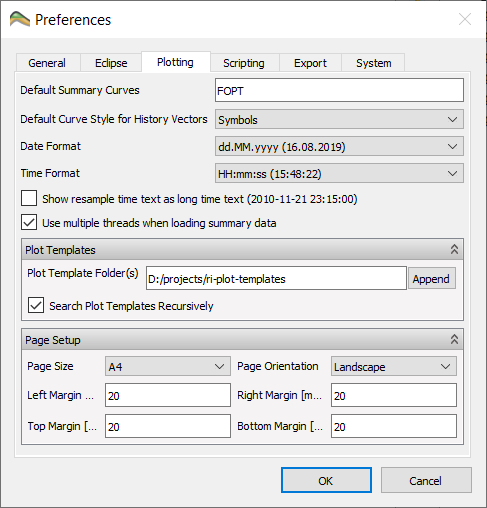
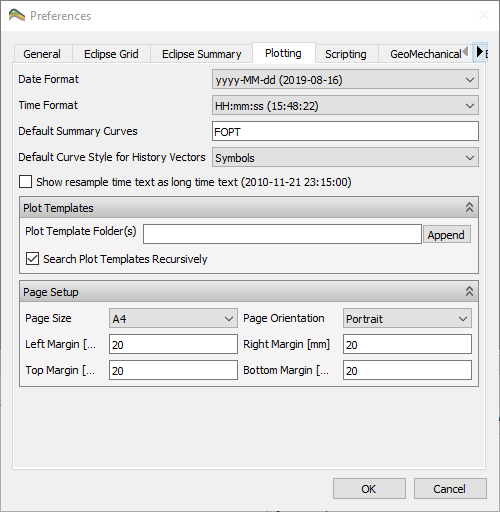
Add summary import page, improve preferences

diff --git a/content/plot-window/SummaryPlots.md b/content/plot-window/SummaryPlots.md
@@ -22,19 +22,13 @@ ResInsight can create summary plots based on vectors from SUMMARY files ( _`*.SM
 
 ### SUMMARY Files
 
-When opening an Eclipse case in the 3D view, the associated summary file is opened automatically by default and made available as a **Summary Case**.
-Summary files can also be imported directly using one of the following commands in the **File->Import->Summary Cases** menu:
+See [Eclipse Summary Data]({{< relref "eclipsesummarydata" >}}) for description on how to import data.
 
-- **Import Summary Case**: Brings up the standard file selection dialog. Multiple selections are allowed.
-- **Import Summary Cases Recursively**: Brings up the [recursive file selection](#recursive-summary-file-import) dialog to load files from multiple directories.
-- **Import Summary Case Group**: Brings up the [recursive file selection](#recursive-summary-file-import) dialog. Selected files are automatically grouped.
-- **Import Ensemble**: Similar to the above, but in addition to just create a group, ResInsight performs some extra checking related to ensembles and converts the group to an ensemble, c.f. [Ensemble Plotting]({{< relref "ensembleplotting" >}}).
-
-These commands can also be accessed in the right-click menu for the **Summary Cases** entry in the **Plot Project Tree**.
+The input commands can also be accessed in the right-click menu for the **Summary Cases** entry in the **Plot Project Tree**.
 Notably, the right-click menu also allows creating a [delta ensemble]({{< relref "ensembleplotting" >}}#delta-ensemble) 
 and [delta summary case]({{< relref "summaryplots" >}}#delta-summary-case).
 
-During summary file import, ResInsight checks whether the summary file is restarted, i.e. has an origin file. If an origin file is found, the [Origin Files](#origin-files) dialog is displayed.
+During summary file import, ResInsight checks whether the summary file is restarted, i.e. has an origin file. If an origin file is found, the [Origin Files]({{< relref "eclipsesummarydata" >}}#origin-files) dialog is displayed.
 
 
 ### Summary Case Groups
@@ -219,44 +213,3 @@ The user can control the curve name used in the plot legend by the following opt
 
 Copy and Paste of selections of Summary Plots and Curves, is possible using the Project Tree right-click menu and standard keyboard shortcuts (CTRL-C/CTRL-V).
 
-## Recursive summary file import
-When using the standard file selection dialog, the user is limited to select files in one directory only. If the interesting files are distributed over multiple directories, the dialog has to be opened once for each directory. The recursive file selection dialog is created to circumvent this limitation. This dialog is able to search a directory tree for files matching a specified pattern.
-
-![]({{< relref "" >}}images/plot-window/RecursiveImportDialog2.png)
-
-The dialog consists of the following fields:
-
-- **Path Pattern**: The path filter uses normal wildcard file globbing, like in any unix shell. When the filter ends with a single "**" (eg. "/home/*"), however, ResInsight will search recursively in all subdirectories from that point. This is indicated by "..." in the **Effective Filter** label below.
-  - **\*** Matches any number of any characters except the path separator
-  - **?** Matches one character exception the directory separator
-  - **[abc]** Matches one of the specified characters. Ex. a, b or c
-- **File Pattern**: The search pattern that applies to the file name.
-- **Effective Filter**: The effective filter displays the resulting full path search pattern. It is updated on the fly as the user edits the pattern fields. A text string of "..." indicates a complete recursive directory search.
-
-After pressing the **Find** button, a file search is performed in the root directory and the directories below matching the path pattern. The files found are presented in a list, where the user can check/uncheck each file individually.
-
-When the **OK** button is pressed, all checked files are imported.
-
-### Origin Files
-![]({{< relref "" >}}images/plot-window/OriginFileDialog.png)
-
-During summary file import, ResInsight checks whether the summary file is restarted, i.e. has an origin file. If an origin file is found, the Origin Files dialog is displayed.
-
-Depending on what triggered the summary file import, the dialog shows slightly different information. If the summary file import was triggered by a grid file import, the dialog displays information about grid files in addition to the summary origin file(s). If the summary file was imported directly, information about grid files are not relevant and thus not displayed.
-
-The dialog contents are organized in groups:
-
-- **Current Grid and Summary Files** or **Current Summary Files**: This group displays the name of the main summary file to import. If the import is triggered by a grid file import, the name of the grid file is also displayed.
-- **Origin Summary Files**: This group displays the names of the origin summary file(s) found. If there are more than one file listed, it means that the found origin file also has an origin file. ResInsight will search the "chain" of summary origin files until it reaches the end.
-  - **Import Options** There are three options to control how origin summary file are imported
-    - **Unified**: The main summary files and all origin files are imported into one single summary case
-    - **Separate Cases**: The main files and all origin files are imported into separate summary cases
-    - **Skip**: Only the main summary file is imported. The origin summary files are skipped.
-- **Origin Grid Files**: If the summary file import was triggered by a grid file import, this group is visible. It contains a list of the grid files associated to the origin summary files
-  - **Import Options** There are two options to control how the grid files are imported
-    - **Separate Cases**: All "origin" grid files are imported into separate grid cases
-    - **Skip**: Only the main grid file is imported. The "origin" grid files are skipped.
-
-By default the file names are displayed using relative path based on the common root folder for all files. In order to display the full path, check the **Show full paths** checkbox. Regardless of the checkbox state, there is always a tooltip showing the full path for every file. It is also possible to copy a full path file name to the clipboard. Right click on the file name and select **Copy file name**.
-
-If the user selected multiple summary files or grid files, this dialog will be displayed for every file that has an origin summary file. In this case the button **OK to All** appears. When this button is clicked, the rest of the files will be imported silently using the same options.

diff --git a/content/import/EclipseSummaryData.md b/content/import/EclipseSummaryData.md
@@ -1,0 +1,68 @@
++++
+title = "Eclipse Summary Data"
+published = true
+weight = 10
++++
+ 
+Summary data can be imported as a single summary file or an ensemble of summary files.
+
+### Basic Summary Import
+Summary data is located in two files, summary vector names in **\*.SMSPEC** and curve data in **\*.UNSMRY**.  
+
+
+
+## Ensemble File Import
+When using the standard file selection dialog, the user is limited to select files in one directory only. If the interesting files are distributed over multiple directories, the dialog has to be opened once for each directory. The recursive file selection dialog is created to circumvent this limitation. This dialog is able to search a directory tree for files matching a specified pattern.
+
+{{% notice note %}}
+This dialog is used for import of different file types like *.EGRID and *.SMSPEC.
+{{% /notice %}}
+
+![]({{< relref "" >}}images/plot-window/RecursiveImportDialog2.png)
+
+The dialog consists of the following fields:
+
+- **Path Pattern**: The path filter uses normal wildcard file globbing, like in any unix shell. When the filter ends with a single "**" (eg. "/home/*"), however, ResInsight will search recursively in all subdirectories from that point. This is indicated by "..." in the **Effective Filter** label below.
+  - **\*** Matches any number of any characters except the path separator
+  - **?** Matches one character exception the directory separator
+  - **[abc]** Matches one of the specified characters. Ex. a, b or c
+- **File Pattern**: The search pattern that applies to the file name.
+- **Effective Filter**: The effective filter displays the resulting full path search pattern. It is updated on the fly as the user edits the pattern fields. A text string of "..." indicates a complete recursive directory search.
+
+After pressing the **Find** button, a file search is performed in the root directory and the directories below matching the path pattern. The files found are presented in a list, where the user can check/uncheck each file individually.
+
+When the **OK** button is pressed, all checked files are imported.
+
+### Origin Files
+![]({{< relref "" >}}images/plot-window/OriginFileDialog.png)
+
+During summary file import, ResInsight checks whether the summary file is restarted, i.e. has an origin file. If an origin file is found, the Origin Files dialog is displayed.
+
+Depending on what triggered the summary file import, the dialog shows slightly different information. If the summary file import was triggered by a grid file import, the dialog displays information about grid files in addition to the summary origin file(s). If the summary file was imported directly, information about grid files are not relevant and thus not displayed.
+
+The dialog contents are organized in groups:
+
+- **Current Grid and Summary Files** or **Current Summary Files**: This group displays the name of the main summary file to import. If the import is triggered by a grid file import, the name of the grid file is also displayed.
+- **Origin Summary Files**: This group displays the names of the origin summary file(s) found. If there are more than one file listed, it means that the found origin file also has an origin file. ResInsight will search the "chain" of summary origin files until it reaches the end.
+  - **Import Options** There are three options to control how origin summary file are imported
+    - **Unified**: The main summary files and all origin files are imported into one single summary case
+    - **Separate Cases**: The main files and all origin files are imported into separate summary cases
+    - **Skip**: Only the main summary file is imported. The origin summary files are skipped.
+- **Origin Grid Files**: If the summary file import was triggered by a grid file import, this group is visible. It contains a list of the grid files associated to the origin summary files
+  - **Import Options** There are two options to control how the grid files are imported
+    - **Separate Cases**: All "origin" grid files are imported into separate grid cases
+    - **Skip**: Only the main grid file is imported. The "origin" grid files are skipped.
+
+By default the file names are displayed using relative path based on the common root folder for all files. In order to display the full path, check the **Show full paths** checkbox. Regardless of the checkbox state, there is always a tooltip showing the full path for every file. It is also possible to copy a full path file name to the clipboard. Right click on the file name and select **Copy file name**.
+
+If the user selected multiple summary files or grid files, this dialog will be displayed for every file that has an origin summary file. In this case the button **OK to All** appears. When this button is clicked, the rest of the files will be imported silently using the same options.
+
+
+### Summary Data File Formats
+
+**h5 File Format**
+Eclipse is able to reorganize the summary data after a simulations has completed. This will produce an additional file with the extention **h5**. The curve data in this file is identical to curve data in **UNSMRY**.
+
+ResInsight is now by default using **H5** files to import summary data, as this format has good performance for huge datasets. The native Eclipse **UNSMRY** files can be imported from [Eclipse Summary Preferences]({{< relref "preferences#eclipse-summary" >}}).
+
+

diff --git a/content/misc/Preferences.md b/content/misc/Preferences.md
@@ -6,7 +6,7 @@ weight = 10
 
 In this section the different settings that controls the default behavior of ResInsight is described. These settings can be controlled using the **Preference** dialog available from the **Edit -> Preferences** menu.
 
-![]({{< relref "" >}}images/3d-main-window/Preferences.png)
+![]({{< relref "" >}}images/misc/PreferencesGeneral.png)
 
 When changing the preferences, any default color, font or Z-scale Factor that has not been changed by the user in the various views, will be applied immediately. If the user has changed font sizes in specific plots or annotations from the default value, ResInsight will ask if the user wants the new defaults applied to all existing views and plots even where custom settings have been set.
 
@@ -42,18 +42,18 @@ This group of options controls visual settings that will be used when creating n
 - **Navigation mode** -- Defines how to use the mouse to interact with with the 3D model. Please refer to [Model Navigation]({{< relref "modelnavigation" >}}) for details.
 - **Default Z Scale Factor** -- Default depth scale for grid models.
 - **Show Box around Legends** -- Create a semi-transparent box containing each legend in the 3D Views.
-- **Use shaders** -- This option controls the use of OpenGL shaders. Should be left **On**. Available only for testing purposes.
-- **Show 3D Information** -- Displays graphical resource usage as text in the 3D view.
+- **Enable Faults by Default** -- Controls default visibility of faults in views
+- **Show Info Box in New Projects** -- Controls default visibility Info Box in upper right corner
+- **Show Grid Box in New Projects** -- Controls default visibility of grid box
+
 
 ### Other
-- **Date Format** -- Defines the date format to be used in time legend plotting
-- **Time Format** -- Defines the time format to be used in time legend plotting
 - **SSIHUB Address** -- Optional URL to Equinor internal web service used to import well paths
 - **Show LAS Curve Without TVD Warning** - Turn off the warning displayed when showing LAS curves in TVD mode
 
-## Eclipse - tab
+## Eclipse Grid
 
-![]({{< relref "" >}}images/3d-main-window/EclipsePreferences.png)
+![]({{< relref "" >}}images/misc/PreferencesEclipseGrid.png)
 
 ### Behavior When Loading Data
 
@@ -64,11 +64,26 @@ This group of options controls visual settings that will be used when creating n
 - **Use Result Index File** -- If enabled ResInsight will try to save a result index file when opening a new case. The file is stored in the same directory as the _`*.EGRID`_ file with filename _`<casename>.RESINSIGHT_IDX`_ If it exists, ResInsight will use this when loading the case, resulting in a significant speedup.
 - **Skip Import of Simulation Well Data** -- Disable import of simulation well data for a case to reduce case import time (opposite toggling than the other import commands).
 
+## Eclipse Summary
+
+![]({{< relref "" >}}images/misc/PreferencesEclipseSummary.png)
+
 ### Origin Files
-Please refer to [Summary Origin]({{< relref "summaryplots.md#origin-files" >}}) for details related to handling of **Origin Files**.
+Please refer to [Summary Origin]({{< relref "eclipsesummarydata#origin-files" >}}) for details related to handling of **Origin Files**.
 
+## Summary Data Import
 
-## Plotting - tab
+Please refer to [Summary Origin]({{< relref "eclipsesummarydata#origin-files" >}}) for details related to handling of **Origin Files**.
+
+- **File Format**: Defines the file reader for summary data import
+  - **h5 (HDF5)** Import data from  h5 files
+  - **UNSMRY (libecl)** Import data from native UNSMRY files
+  - **LODSMRY (opm-common)** Experimental file format used by opm-flow
+- **Create h5 Summary Files** : If no h5 file is present on disk, import curve data from UNSMRY and write to a h5 file in the same folder
+- **Check File Timestamp** : Update content of h5 file if UNSMRY has new data
+- **h5 Summary Export Thread Count** : Defines number of threads when creating h5 files
+
+## Plotting
 
 ![]({{< relref "" >}}images/misc/PreferencesPlotting.png)
 

diff --git a/content/import/EclipseCases.md b/content/import/EclipseCases.md
@@ -17,10 +17,10 @@ Release 2018.11 supports import of simulations from Intersect. To be able to imp
 ResInsight offers several ways to import Eclipse (grid) files. Use one of the following commands in the **File->Import->Eclipse Cases** menu:
 
 - **Import Eclipse Case**: Brings up the standard file selection dialog. Select _`*.EGRID`_ or _`*.GRID`_ Eclipse files for import. Multiple selections are allowed.
-- **Import Eclipse Cases Recursively**: Brings up the recursive file selection dialog. This dialog is described in detail on the [Summary Plots page]({{< relref "summaryplots" >}}#recursive-summary-file-import).
+- **Import Eclipse Cases Recursively**: Brings up the recursive file selection dialog. This dialog is described in detail on the [Summary Plots page]({{< relref "eclipsesummarydata" >}}#ensemble-file-import).
 - **Import Eclipse Case (Time Step Filtered)**: See [description](#time-step-filtered-eclipse-result)
 - **Import Input Eclipse Case**: See [description](#eclipse-ascii-input-data)
-- **Create Grid Case Group from Files** and **Create Grid Case Group from Files Recursively**: These commands import a number of Eclipse files and places the cases in a [grid case group]({{< relref "casegroupsandstatistics" >}}#creating-grid-case-groups). The only difference between the two commands, is the dialog used to select files. The recursive version is using the [recursive file selection dialog]({{< relref "summaryplots" >}}#recursive-summary-file-import) and is considered the new way of selecting files.
+- **Create Grid Case Group** : Import a number of Eclipse files and places the cases in a [grid case group]({{< relref "casegroupsandstatistics" >}}#creating-grid-case-groups) See [File Selection Dialog]({{< relref "eclipsesummarydata" >}}#ensemble-file-import) for how to import multiple files.
 
 The **Reload Case** command can be used to reload a previously imported case, to make sure it is up to date. This is useful if the grid or result files changes while a ResInsight session is active.
 

diff --git a/content/3d-main-window/CaseGroupsAndStatistics.md b/content/3d-main-window/CaseGroupsAndStatistics.md
@@ -14,17 +14,9 @@ If you have several Eclipse simulations with different input parameters availabl
 
 ### From Files
 The easiest way to create a **Grid Case Group** is to use the Import command:
-**File->Import->Eclipse Cases->Create Grid Case Group from Files** or **File->Import->Eclipse Cases->Create Grid Case Group from Files Recursively**
+**File->Import->Eclipse Cases->Create Grid Case Group**
 
-The latter command will display the recursive file import dialog described on the [Summary Plots page]({{< relref "summaryplots" >}}#recursive-summary-file-import).
-
-The first command will display the "old" import dialog:
-![]({{< relref "" >}}images/3d-main-window/CreateGridCaseGroupFromFileDialog.png) 
-
-1. Add one or more search folders to the list on the left.
-2. The EGRID or GRID files found in these directories and sub directories are shown in the list to the right.
-3. If you want to remove some EGRID files from the list, select them and press the **Remove** button.
-4. When you are ready, press the **OK** button.
+This command will display the recursive file import dialog described on the [Summary Plots page]({{< relref "eclipsesummarydata" >}}#recursive-summary-file-import).
 
 ResInsight then creates a **Grid Case Group** for you, and populates its **Source Cases** with the Cases you selected. Then the first of those Cases are read completely, while the others are just scanned to verify that the Grids match and to detect changes in the Active Cells layout. This makes it quite fast to load even a quite large number of realizations.
 

diff --git a/docs/source/GeneratedClasses.rst b/docs/source/GeneratedClasses.rst
@@ -1,7 +1,7 @@
 .. _AllClasses:
 
 Project Tree Classes
-===========
+====================
 ResInsight provides access to a number of other objects in the Project Tree. These all inherit the
 :ref:`PdmObjectBaseLabel` class.
 
